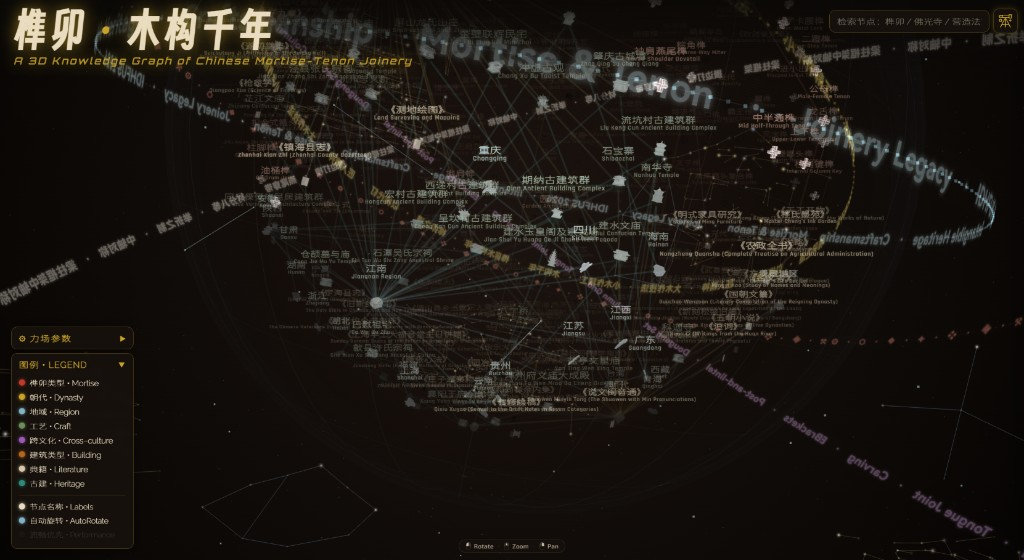
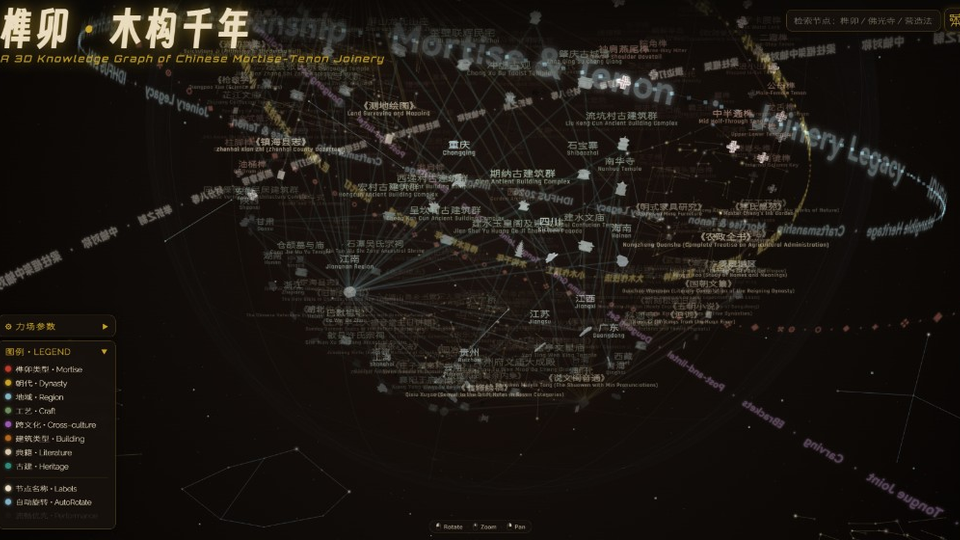
Unify README screenshot heights to matching 16:9 crops.

diff --git a/README.md b/README.md
@@ -5,9 +5,8 @@
 **站点：** [tenennium.florescentmice.fun](https://tenennium.florescentmice.fun)
 
 <p align="center">
-  <img src="docs/screenshots/tenennium-overview.png" alt="Tenennium 总览" width="48%" />
-  &nbsp;
-  <img src="docs/screenshots/tenennium-graph.png" alt="Tenennium 图谱近景" width="48%" />
+  <img src="docs/screenshots/tenennium-overview.png" alt="Tenennium 总览" width="49%" />
+  <img src="docs/screenshots/tenennium-graph.png" alt="Tenennium 图谱近景" width="49%" />
 </p>
 
 ## 快速开始
